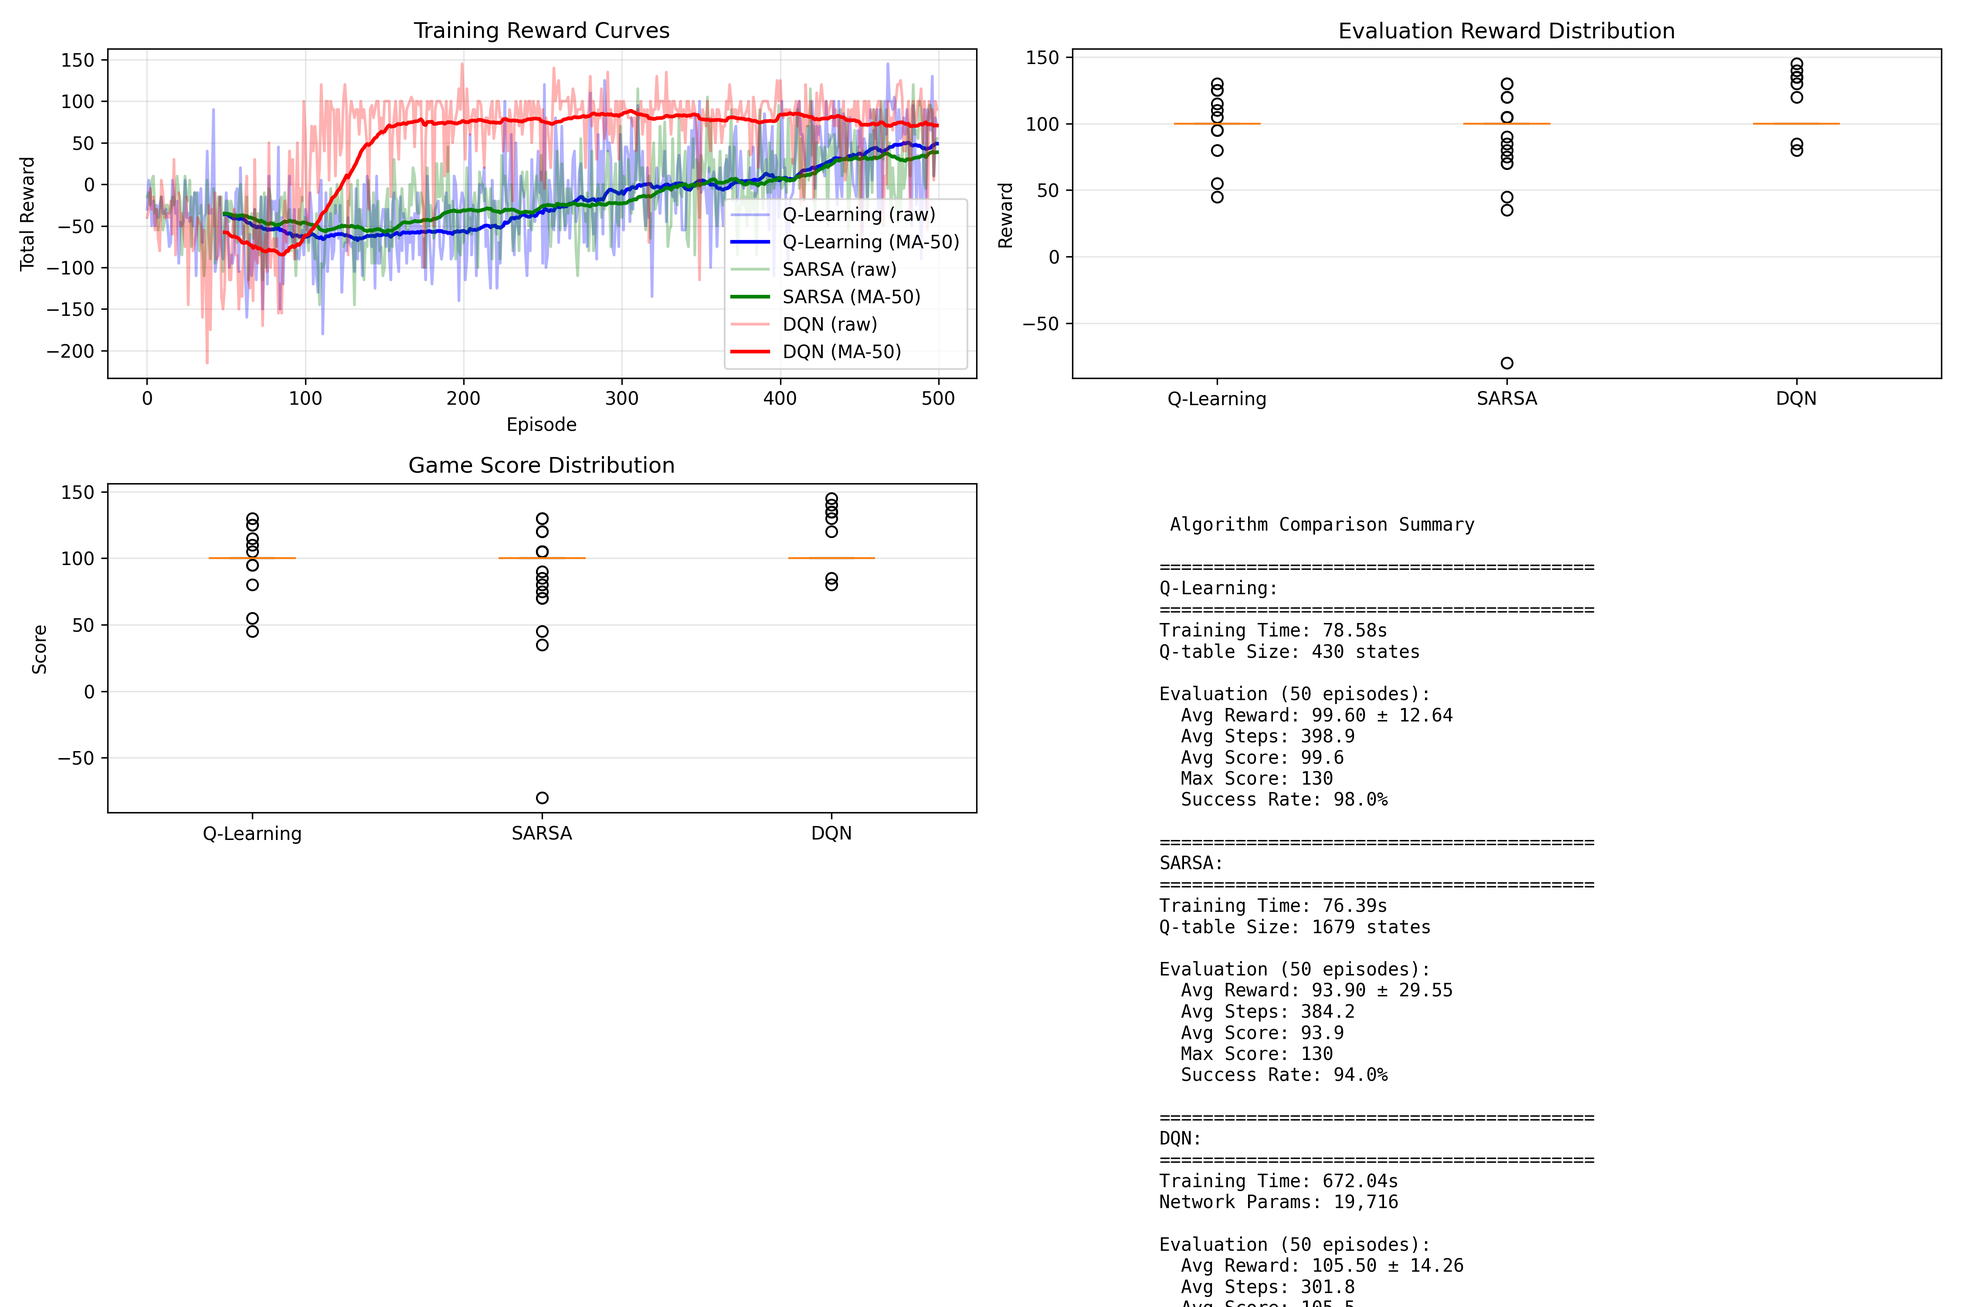
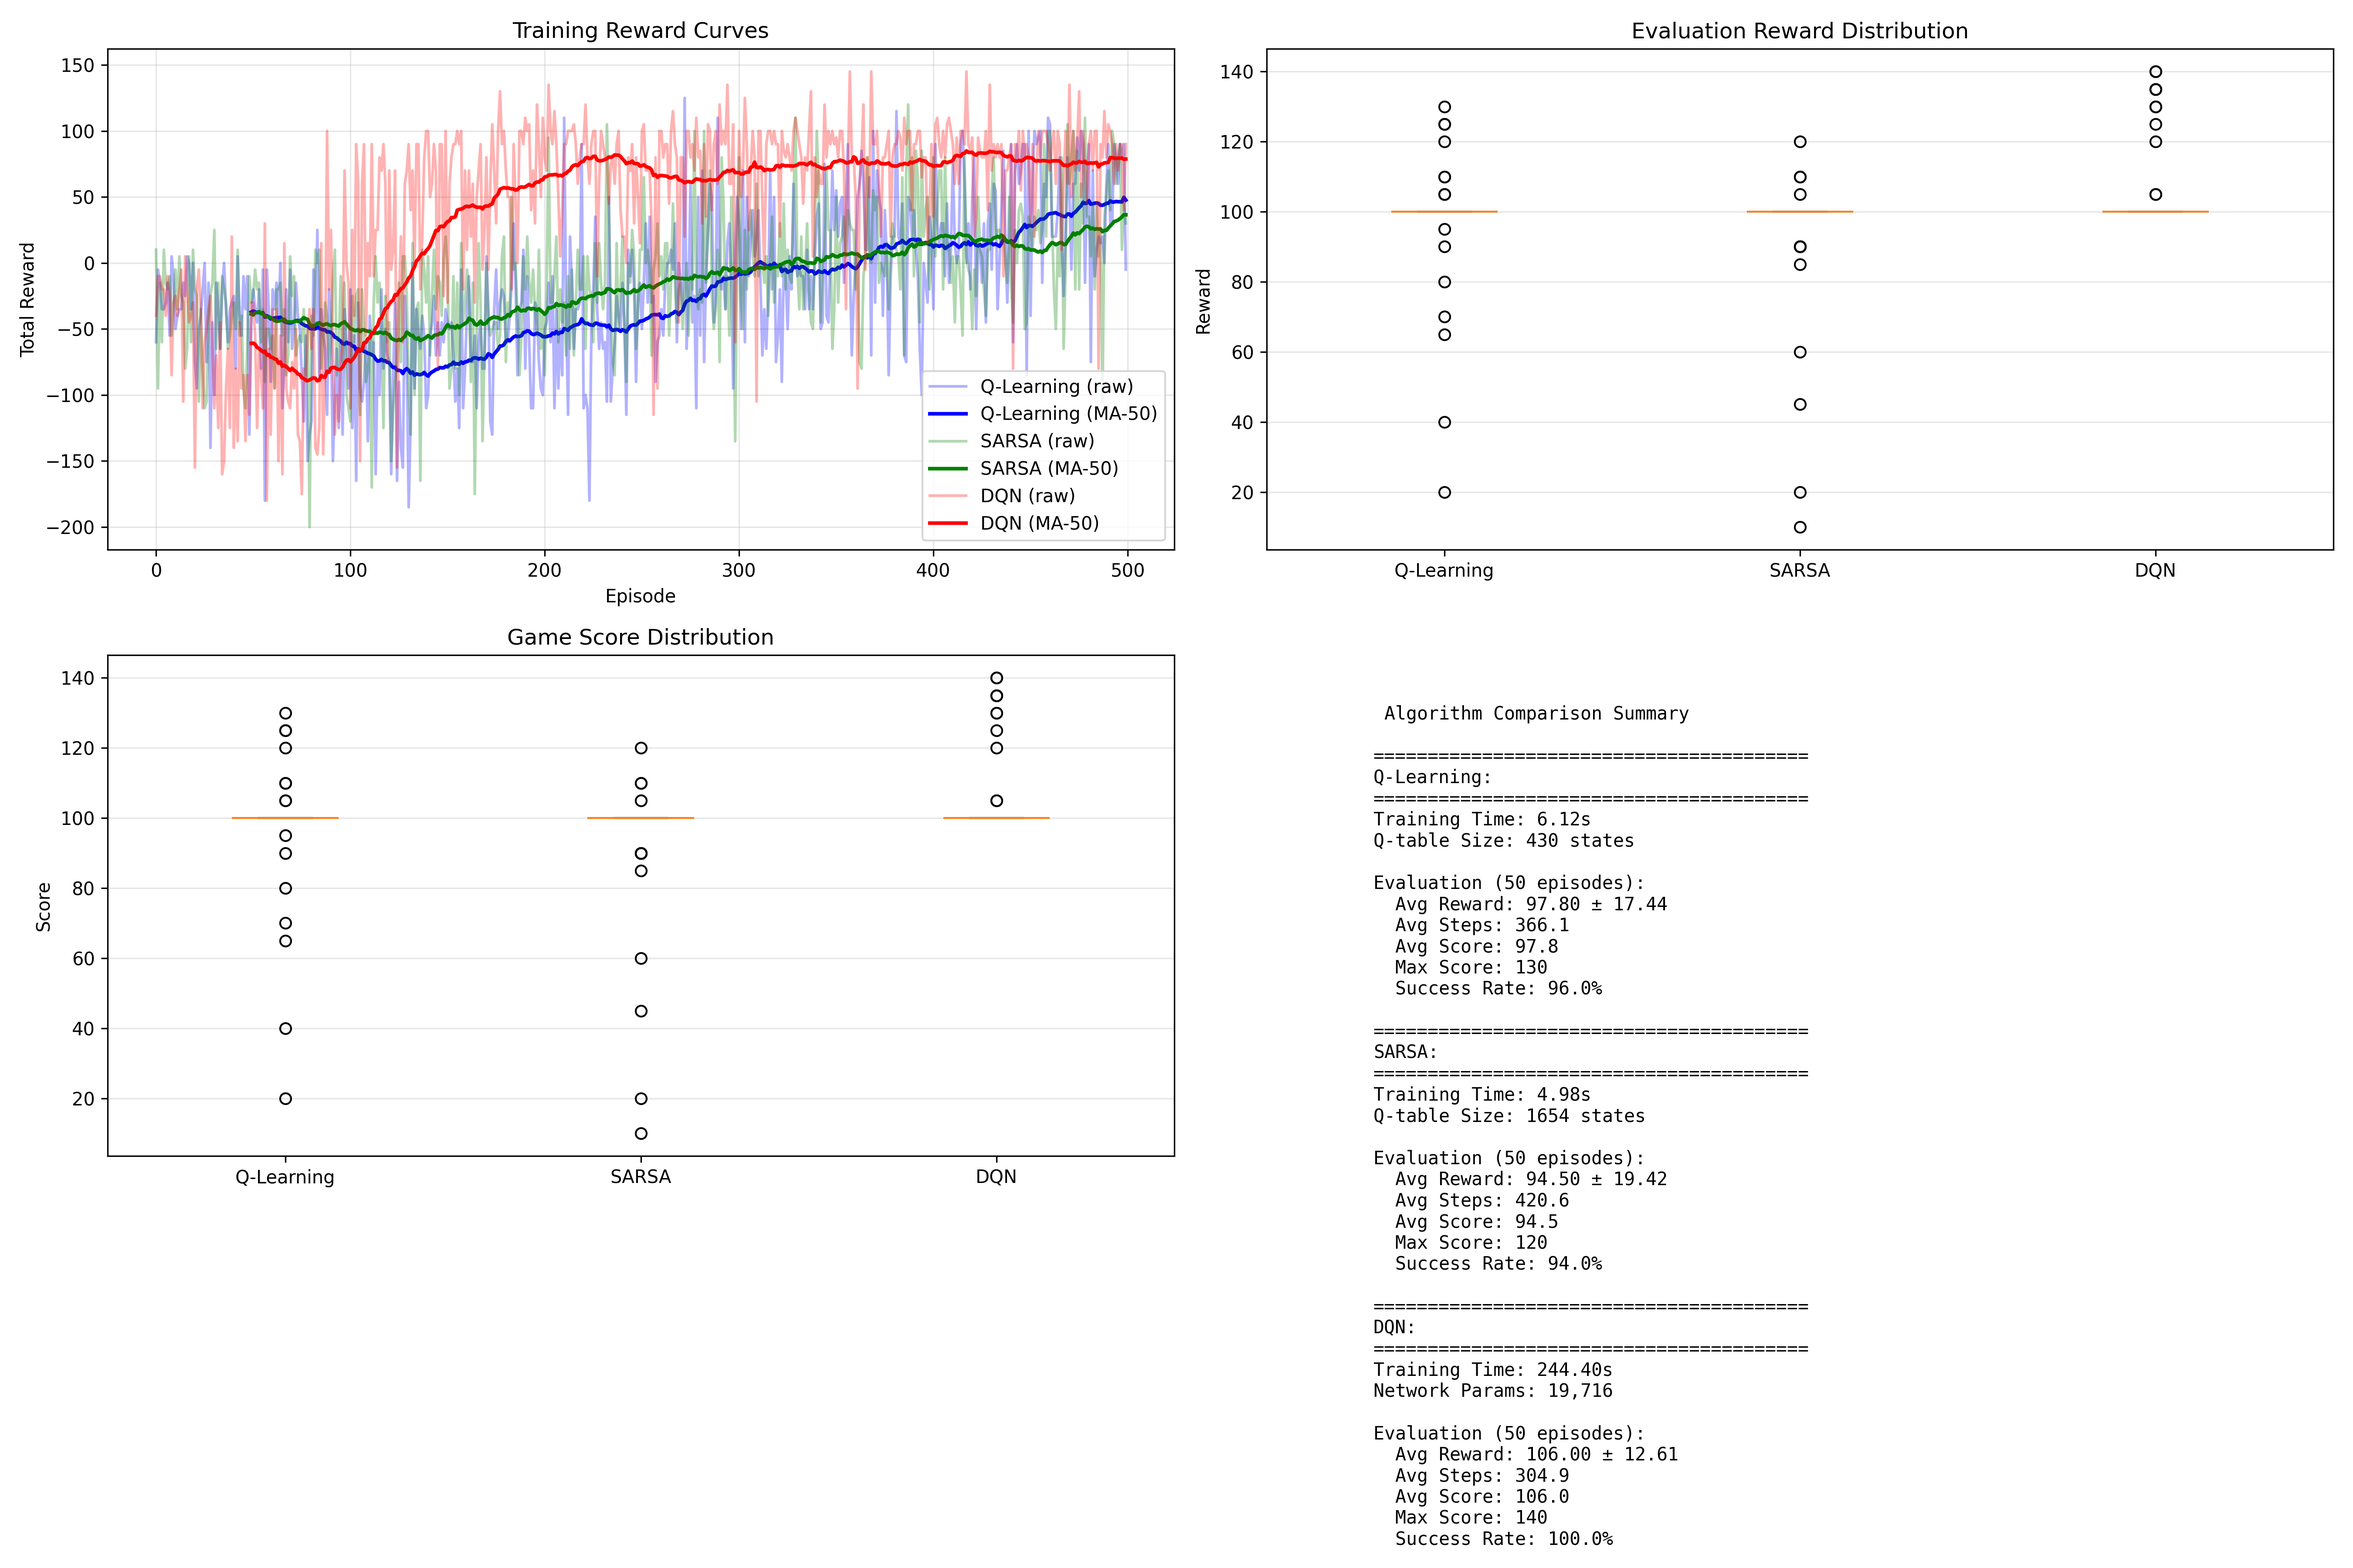
Fixed the display issues of the DQN summary and the winner column.

diff --git a/compare.py b/compare.py
@@ -229,7 +229,7 @@ class AlgorithmComparison:
     
     def plot_comparison(self):
         """Plot comprehensive comparison"""
-        fig, axes = plt.subplots(2, 2, figsize=(15, 10))
+        fig, axes = plt.subplots(2, 2, figsize=(18, 12))
         
         # 1. Training Rewards Curve
         ax1 = axes[0, 0]
@@ -324,12 +324,12 @@ class AlgorithmComparison:
     
     def print_detailed_comparison(self):
         """Print detailed comparison table"""
-        print("\n" + "="*80)
+        print("\n" + "="*100)
         print(" DETAILED ALGORITHM COMPARISON")
-        print("="*80)
+        print("="*100)
         
-        print(f"\n{'Metric':<30} {'Q-Learning':<20} {'SARSA':<20} {'Winner':<10}")
-        print("-"*80)
+        print(f"\n{'Metric':<30} {'Q-Learning':<15} {'SARSA':<15} {'DQN':<15} {'Winner':<10}")
+        print("-"*100)
         
         metrics = [
             ('Training Time (s)', 'training_time', 'lower'),
@@ -342,9 +342,11 @@ class AlgorithmComparison:
             ('Success Rate (%)', 'evaluation.success_rate', 'higher'),
         ]
         
+        algorithm_name = ['Q-Learning', 'SARSA', 'DQN']
+        
         for metric_name, metric_key, better in metrics:
             values = {}
-            for name in ['Q-Learning', 'SARSA', 'DQN']:
+            for name in algorithm_name:
                 if name in self.results:
                     if metric_key == 'model_size':
                         # Special handling for model size
@@ -357,7 +359,7 @@ class AlgorithmComparison:
                         keys = metric_key.split('.')
                         val = self.results[name]
                         for k in keys:
-                            if k in val:
+                            if isinstance(val, dict) and k in val:
                                 val = val[k]
                             else:
                                 val = None
@@ -369,23 +371,39 @@ class AlgorithmComparison:
             s_val = values.get('SARSA')
             d_val = values.get('DQN')
             
+            #Winner
+            winner = "N/A"
+            numeric_vals = {}
+            for algo, v in [('Q-Learning', q_val), ('SARSA', s_val), ('DQN', d_val)]:
+                if isinstance(v, (int, float)):
+                    numeric_vals[algo] = v
+            if numeric_vals:
+                if better == 'higher':
+                    winner = max(numeric_vals, key=numeric_vals.get)
+                else:
+                    winner = min(numeric_vals, key=numeric_vals.get)
+
             # Format display
             if metric_key == 'model_size':
+                #just for ensure
                 # Model size is already formatted as string
-                print(f"{metric_name:<30} {str(q_val):<20} {str(s_val):<20} {str(d_val):<20}")
+                q_str = str(q_val) if q_val is not None else "N/A"
+                s_str = str(s_val) if s_val is not None else "N/A"
+                d_str = str(d_val) if d_val is not None else "N/A"
+                print(f"{metric_name:<30} {str(q_val):<20} {str(s_val):<20} {str(d_val):<20}{winner:<10}")
             elif all(isinstance(v, (int, float)) for v in [q_val, s_val, d_val] if v is not None):
                 # Numeric comparison
                 q_str = f"{q_val:.2f}" if q_val is not None else "N/A"
                 s_str = f"{s_val:.2f}" if s_val is not None else "N/A"
                 d_str = f"{d_val:.2f}" if d_val is not None else "N/A"
-                print(f"{metric_name:<30} {q_str:<20} {s_str:<20} {d_str:<20}")
+                print(f"{metric_name:<30} {q_str:<20} {s_str:<20} {d_str:<20}{winner:<10}")
             else:
                 q_str = str(q_val) if q_val is not None else "N/A"
                 s_str = str(s_val) if s_val is not None else "N/A"
                 d_str = str(d_val) if d_val is not None else "N/A"
-                print(f"{metric_name:<30} {q_str:<20} {s_str:<20} {d_str:<20}")
+                print(f"{metric_name:<30} {q_str:<20} {s_str:<20} {d_str:<20}{winner:<10}")
         
-        print("="*80)
+        print("="*100)
 
 def main():
     print(" Starting Algorithm Comparison: Q-Learning vs SARSA vs DQN")
